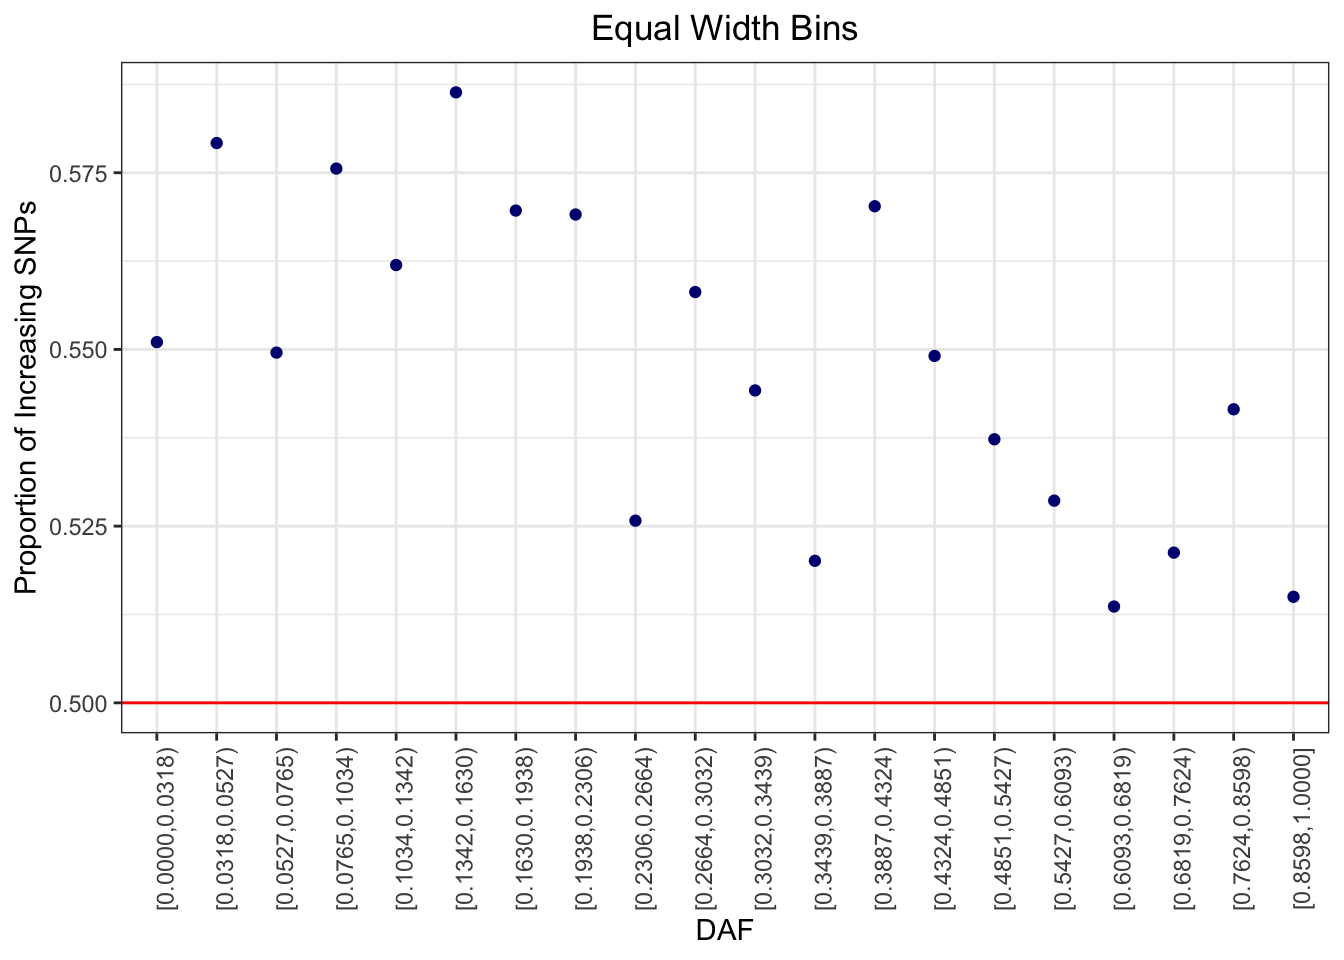
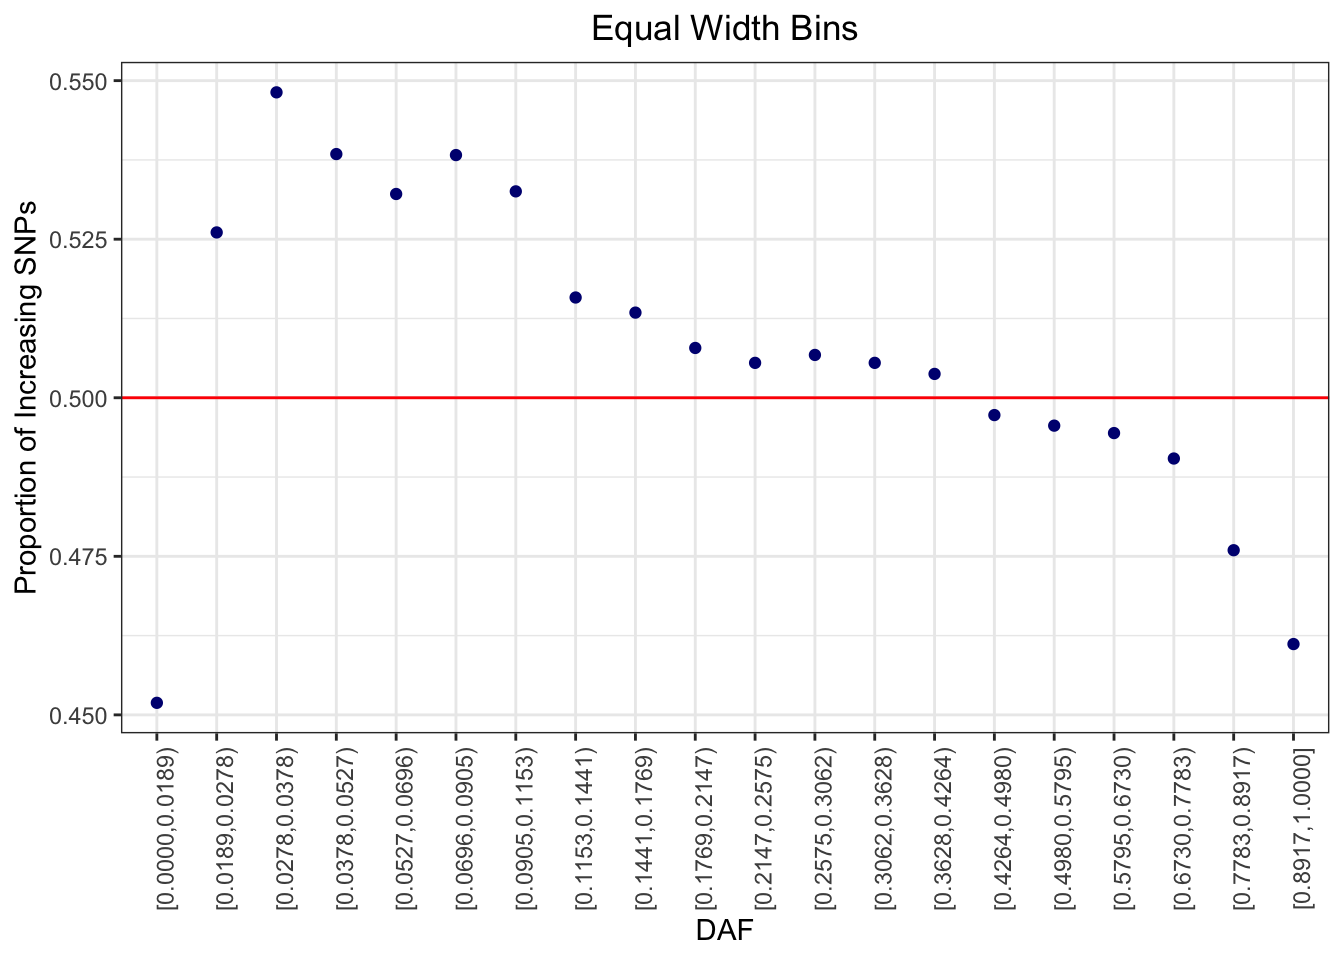
Build site.

diff --git a/docs/strat_GWASs.html b/docs/strat_GWASs.html
@@ -411,7 +411,7 @@ div.section {
 <div class="tab-content">
 <div id="summary" class="tab-pane fade in active">
 <p>
-<strong>Last updated:</strong> 2020-06-15
+<strong>Last updated:</strong> 2020-06-16
 </p>
 <p>
 <strong>Checks:</strong> <span class="glyphicon glyphicon-ok text-success" aria-hidden="true"></span> 7 <span class="glyphicon glyphicon-exclamation-sign text-danger" aria-hidden="true"></span> 0
@@ -502,10 +502,10 @@ This reproducible <a href="http://rmarkdown.rstudio.com">R Markdown</a> analysis
 <div class="panel panel-default">
 <div class="panel-heading">
 <p class="panel-title">
-<a data-toggle="collapse" data-parent="#workflowr-checks" href="#strongRepositoryversionstrongahrefhttpsgithubcomjgblancinfermutationalbiastreecd1a0f02e0111f2d04f81a0fadeddbbe6d776fd6targetblankcd1a0f0a"> <span class="glyphicon glyphicon-ok text-success" aria-hidden="true"></span> <strong>Repository version:</strong> <a href="https://github.com/jgblanc/infer_mutational_bias/tree/cd1a0f02e0111f2d04f81a0fadeddbbe6d776fd6" target="_blank">cd1a0f0</a> </a>
+<a data-toggle="collapse" data-parent="#workflowr-checks" href="#strongRepositoryversionstrongahrefhttpsgithubcomjgblancinfermutationalbiastreeaa432805ad9beb1ef67407a75b76ae1bf64496e6targetblankaa43280a"> <span class="glyphicon glyphicon-ok text-success" aria-hidden="true"></span> <strong>Repository version:</strong> <a href="https://github.com/jgblanc/infer_mutational_bias/tree/aa432805ad9beb1ef67407a75b76ae1bf64496e6" target="_blank">aa43280</a> </a>
 </p>
 </div>
[2 lines of base64/hex data omitted]
 <div class="panel-body">
 <p>
 Great! You are using Git for version control. Tracking code development and connecting the code version to the results is critical for reproducibility. The version displayed above was the version of the Git repository at the time these results were generated. <br><br> Note that you need to be careful to ensure that all relevant files for the analysis have been committed to Git prior to generating the results (you can use <code>wflow_publish</code> or <code>wflow_git_commit</code>). workflowr only checks the R Markdown file, but you know if there are other scripts or data files that it depends on. Below is the status of the Git repository when the results were generated:
@@ -682,6 +682,40 @@ Message
 Rmd
 </td>
 <td>
+<a href="https://github.com/jgblanc/infer_mutational_bias/blob/aa432805ad9beb1ef67407a75b76ae1bf64496e6/analysis/strat_GWASs.Rmd" target="_blank">aa43280</a>
+</td>
+<td>
+jgblanc
+</td>
+<td>
+2020-06-16
+</td>
+<td>
+added comparison
+</td>
+</tr>
+<tr>
+<td>
+html
+</td>
+<td>
+<a href="https://rawcdn.githack.com/jgblanc/infer_mutational_bias/9fa9f638f77fdf1fe80ccb754e33c2b6c712362f/docs/strat_GWASs.html" target="_blank">9fa9f63</a>
+</td>
+<td>
+jgblanc
+</td>
+<td>
+2020-06-15
+</td>
+<td>
+Build site.
+</td>
+</tr>
+<tr>
+<td>
+Rmd
+</td>
+<td>
 <a href="https://github.com/jgblanc/infer_mutational_bias/blob/cd1a0f02e0111f2d04f81a0fadeddbbe6d776fd6/analysis/strat_GWASs.Rmd" target="_blank">cd1a0f0</a>
 </td>
 <td>
@@ -709,8 +743,8 @@ process
   return(df)
 }</code></pre>
 <p>Pick only GWAS Significant SNPs</p>
-<pre class="r"><code>sig_snps &lt;- function(df) {
-  out &lt;- df %&gt;% filter(P &lt; 5e-8)
+<pre class="r"><code>sig_snps &lt;- function(df, threshold) {
+  out &lt;- df %&gt;% filter(P &lt; threshold)
   return(out)
 }</code></pre>
 <p>Pick lowest p-value SNP per block</p>
@@ -755,10 +789,15 @@ make_plot &lt;- function(df, name) {
   pl &lt;- ggplot(data=df, aes(x=IAF,y=abs(ES), color = INCREASING_DERIVED)) + geom_point(alpha=0.5, size=2) + theme_classic() + ggtitle(name) + labs(y = &quot;Effect Size&quot;, x = &quot;Trait Increaseing Allele Frequency&quot;,color = &quot;Risk Derived&quot;)+ ylim(0,max(abs(df$ES)+0.01)) +  xlim(0,1) + scale_color_manual(values = derive) + theme(plot.title = element_text(hjust = 0.5, size = 20), axis.text.x = element_text(size = 10), axis.text.y = element_text(size = 10), axis.title.x = element_text(size = 18), axis.title.y = element_text(size = 18), legend.title = element_text(size = 14), legend.text = element_text(size = 14), legend.position = &quot;bottom&quot;) 
   return(pl)
 }</code></pre>
-<p>Make DAF vs Prop_Risk</p>
+<p>Make DAF vs Proportion of Trait Increasing allele</p>
 <pre class="r"><code>make_daf_plot &lt;- function(df) {
   pl &lt;- ggplot(df, aes(x=bin, y=prop_risk)) + geom_point(col = &quot;navy&quot;) + geom_hline(yintercept = 0.5, col = &quot;red&quot;) + theme_bw() + xlab(&quot;DAF&quot;) + ylab(&quot;Proportion of Increasing SNPs&quot;) + theme(axis.text.x = element_text(angle = 90, hjust = 1)) + ggtitle(&quot;Equal Width Bins&quot;) + theme(plot.title = element_text(hjust = 0.5))
   return(pl)
+}</code></pre>
+<p>Randomly sample <em>x</em> number of SNPs per LD block</p>
+<pre class="r"><code>sample_snps &lt;- function(data, num_snps) {
+  df &lt;- data %&gt;% group_by(LD_BLOCK) %&gt;% sample_n(num_snps)
+  return(df)
 }</code></pre>
 <p>ADHD</p>
 <pre class="r"><code>data &lt;- fread(&quot;~/Desktop/ADHD_PGC.txt&quot;)
@@ -804,64 +843,204 @@ kable(tbl)</code></pre>
 <pre class="r"><code>df &lt;- increasing_derived_alleles_DAF(data)</code></pre>
 <pre><code>`summarise()` ungrouping output (override with `.groups` argument)</code></pre>
 <pre class="r"><code>make_daf_plot(df)</code></pre>
-<p><img src="figure/strat_GWASs.Rmd/unnamed-chunk-11-1.png" width="672" style="display: block; margin: auto;" /></p>
+<p><img src="figure/strat_GWASs.Rmd/unnamed-chunk-12-1.png" width="672" style="display: block; margin: auto;" /></p>
+<p>
+<button type="button" class="btn btn-default btn-xs btn-workflowr btn-workflowr-fig" data-toggle="collapse" data-target="#fig-unnamed-chunk-12-1">
+Past versions of unnamed-chunk-12-1.png
+</button>
+</p>
+<div id="fig-unnamed-chunk-12-1" class="collapse">
+<div class="table-responsive">
+<table class="table table-condensed table-hover">
+<thead>
+<tr>
+<th>
+Version
+</th>
+<th>
+Author
+</th>
+<th>
+Date
+</th>
+</tr>
+</thead>
+<tbody>
+<tr>
+<td>
+<a href="https://github.com/jgblanc/infer_mutational_bias/blob/9fa9f638f77fdf1fe80ccb754e33c2b6c712362f/docs/figure/strat_GWASs.Rmd/unnamed-chunk-12-1.png" target="_blank">9fa9f63</a>
+</td>
+<td>
+jgblanc
+</td>
+<td>
+2020-06-15
+</td>
+</tr>
+</tbody>
+</table>
+</div>
+</div>
+<pre class="r"><code>sig &lt;- sig_snps(data, 1e-3)
+df &lt;- increasing_derived_alleles_DAF(sig)</code></pre>
+<pre><code>`summarise()` ungrouping output (override with `.groups` argument)</code></pre>
+<pre class="r"><code>make_daf_plot(df)</code></pre>
+<p><img src="figure/strat_GWASs.Rmd/unnamed-chunk-12-2.png" width="672" style="display: block; margin: auto;" /></p>
 <p>Non-significant SNPs (BETA &lt; 1e-4)</p>
 <pre class="r"><code>non_sig &lt;- nonsig_snps(data, 1e-4)
 df &lt;- increasing_derived_alleles_DAF(non_sig)</code></pre>
 <pre><code>`summarise()` ungrouping output (override with `.groups` argument)</code></pre>
 <pre class="r"><code>make_daf_plot(df)</code></pre>
-<p><img src="figure/strat_GWASs.Rmd/unnamed-chunk-12-1.png" width="672" style="display: block; margin: auto;" /></p>
+<p><img src="figure/strat_GWASs.Rmd/unnamed-chunk-13-1.png" width="672" style="display: block; margin: auto;" /></p>
 <p>OCD</p>
 <pre class="r"><code>data &lt;- fread(&quot;~/Desktop/OCD_PGC.txt&quot;)
+data &lt;- data %&gt;% filter(ES != 0) # Remove SNPs that are not risk or protective 
 tbl &lt;- increasing_derived_alleles_thresolds(data)
 kable(tbl)</code></pre>
 <table>
 <thead>
 <tr class="header">
-<th align="right">Prop_Inc</th>
-<th align="right">Num_SNPs</th>
-<th align="right">Threshold</th>
+<th>Prop_Inc N</th>
+<th>um_SNPs T</th>
+<th align="left">hreshold</th>
 </tr>
 </thead>
 <tbody>
 <tr class="odd">
-<td align="right">0.4999073</td>
-<td align="right">1110760</td>
-<td align="right">1e-02</td>
+<td>0.4999073</td>
+<td>1110760</td>
+<td align="left">1e-02</td>
 </tr>
 <tr class="even">
-<td align="right">0.5038397</td>
-<td align="right">106258</td>
-<td align="right">1e-03</td>
+<td>0.5038397</td>
+<td>106258</td>
+<td align="left">1e-03</td>
 </tr>
 <tr class="odd">
-<td align="right">0.5612085</td>
-<td align="right">5759</td>
-<td align="right">1e-04</td>
+<td>0.5612085</td>
+<td>5759</td>
+<td align="left">1e-04</td>
 </tr>
 <tr class="even">
-<td align="right">NaN</td>
-<td align="right">0</td>
-<td align="right">1e-05</td>
+<td>NaN</td>
+<td>0</td>
+<td align="left">1e-05</td>
 </tr>
 <tr class="odd">
-<td align="right">NaN</td>
-<td align="right">0</td>
-<td align="right">1e-06</td>
+<td>NaN</td>
+<td>0</td>
+<td align="left">1e-06</td>
 </tr>
 </tbody>
 </table>
 <p>ALL SNPs</p>
 <pre class="r"><code>df &lt;- increasing_derived_alleles_DAF(data)</code></pre>
 <pre><code>`summarise()` ungrouping output (override with `.groups` argument)</code></pre>
+<pre class="r"><code>increasing_derived_alleles(data)</code></pre>
+<pre><code>[1] 0.5106481</code></pre>
 <pre class="r"><code>make_daf_plot(df)</code></pre>
-<p><img src="figure/strat_GWASs.Rmd/unnamed-chunk-14-1.png" width="672" style="display: block; margin: auto;" /></p>
+<p><img src="figure/strat_GWASs.Rmd/unnamed-chunk-15-1.png" width="672" style="display: block; margin: auto;" /></p>
+<p>
+<button type="button" class="btn btn-default btn-xs btn-workflowr btn-workflowr-fig" data-toggle="collapse" data-target="#fig-unnamed-chunk-15-1">
+Past versions of unnamed-chunk-15-1.png
+</button>
+</p>
+<div id="fig-unnamed-chunk-15-1" class="collapse">
+<div class="table-responsive">
+<table class="table table-condensed table-hover">
+<thead>
+<tr>
+<th>
+Version
+</th>
+<th>
+Author
+</th>
+<th>
+Date
+</th>
+</tr>
+</thead>
+<tbody>
+<tr>
+<td>
+<a href="https://github.com/jgblanc/infer_mutational_bias/blob/9fa9f638f77fdf1fe80ccb754e33c2b6c712362f/docs/figure/strat_GWASs.Rmd/unnamed-chunk-15-1.png" target="_blank">9fa9f63</a>
+</td>
+<td>
+jgblanc
+</td>
+<td>
+2020-06-15
+</td>
+</tr>
+</tbody>
+</table>
+</div>
+</div>
+<p>Very Non-significant SNPs (BETA &lt; 1e-4)</p>
+<pre class="r"><code>non_sig &lt;- nonsig_snps(data, 1e-4)
+df &lt;- increasing_derived_alleles_DAF(non_sig)</code></pre>
+<pre><code>`summarise()` ungrouping output (override with `.groups` argument)</code></pre>
+<pre class="r"><code>make_daf_plot(df)</code></pre>
+<p><img src="figure/strat_GWASs.Rmd/unnamed-chunk-16-1.png" width="672" style="display: block; margin: auto;" /></p>
+<p>More significant SNPs (P &lt; 1e-3)</p>
+<pre class="r"><code>sig &lt;- sig_snps(data, 1e-3)
+df &lt;- increasing_derived_alleles_DAF(sig)</code></pre>
+<pre><code>`summarise()` ungrouping output (override with `.groups` argument)</code></pre>
+<p>Overall Health Rating</p>
+<pre class="r"><code>data &lt;- fread(&quot;~/Desktop/overall_health_rating.txt&quot;)
+tbl &lt;- increasing_derived_alleles_thresolds(data)
+kable(tbl)</code></pre>
+<table>
+<thead>
+<tr class="header">
+<th>Prop_Inc N</th>
+<th>um_SNPs T</th>
+<th align="left">hreshold</th>
+</tr>
+</thead>
+<tbody>
+<tr class="odd">
+<td>0.4994874</td>
+<td>9383315</td>
+<td align="left">1e-02</td>
+</tr>
+<tr class="even">
+<td>0.4986912</td>
+<td>2101573</td>
+<td align="left">1e-03</td>
+</tr>
+<tr class="odd">
+<td>0.4965884</td>
+<td>213537</td>
+<td align="left">1e-04</td>
+</tr>
+<tr class="even">
+<td>0.4987348</td>
+<td>21340</td>
+<td align="left">1e-05</td>
+</tr>
+<tr class="odd">
+<td>0.4969498</td>
+<td>2131</td>
+<td align="left">1e-06</td>
+</tr>
+</tbody>
+</table>
+<pre class="r"><code>data &lt;- data %&gt;% filter(ES != 0)
+increasing_derived_alleles(data)</code></pre>
+<pre><code>[1] 0.4997188</code></pre>
+<p>ALL SNPs</p>
+<pre class="r"><code>df &lt;- increasing_derived_alleles_DAF(data)</code></pre>
+<pre><code>`summarise()` ungrouping output (override with `.groups` argument)</code></pre>
+<pre class="r"><code>make_daf_plot(df)</code></pre>
+<p><img src="figure/strat_GWASs.Rmd/unnamed-chunk-19-1.png" width="672" style="display: block; margin: auto;" /></p>
 <p>Non-significant SNPs (BETA &lt; 1e-4)</p>
 <pre class="r"><code>non_sig &lt;- nonsig_snps(data, 1e-4)
 df &lt;- increasing_derived_alleles_DAF(non_sig)</code></pre>
 <pre><code>`summarise()` ungrouping output (override with `.groups` argument)</code></pre>
 <pre class="r"><code>make_daf_plot(df)</code></pre>
-<p><img src="figure/strat_GWASs.Rmd/unnamed-chunk-15-1.png" width="672" style="display: block; margin: auto;" /></p>
+<p><img src="figure/strat_GWASs.Rmd/unnamed-chunk-20-1.png" width="672" style="display: block; margin: auto;" /></p>
 <br>
 <p>
 <button type="button" class="btn btn-default btn-workflowr btn-workflowr-sessioninfo" data-toggle="collapse" data-target="#workflowr-sessioninfo" style="display: block;">
